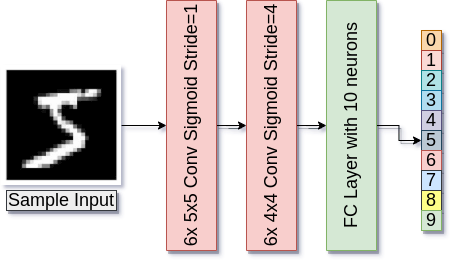
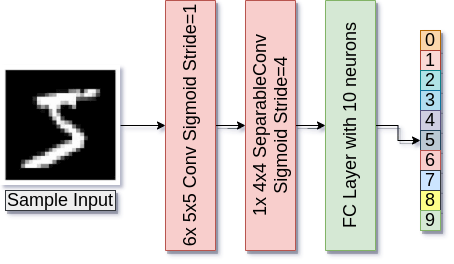
:zap: Update Readme with Model Overview

Changed region(s): [[0.37, 0.0, 0.9868, 0.9697], [0.0, 0.2424, 0.2775, 0.8182], [0.2467, 0.4545, 0.37, 0.4848]]

diff --git a/CuCNN/layer.h b/CuCNN/layer.h
@@ -42,21 +42,21 @@ __global__ void makeError(float *err, float *output, unsigned int Y, const int N
 __global__ void apply_grad(float *output, float *grad, const int N);
 
 // Forward propagation kernels
-__global__ void fp_preact_c1(float input[28][28], float preact[6][24][24], float weight[6][5][5]);
-__global__ void fp_bias_c1(float preact[6][24][24], float bias[6]);
-__global__ void fp_preact_s1(float input[6][24][24], float preact[6][6][6], float weight[1][4][4]);
-__global__ void fp_bias_s1(float preact[6][6][6], float bias[1]);
-__global__ void fp_preact_f(float input[6][6][6], float preact[10], float weight[10][6][6][6]);
-__global__ void fp_bias_f(float preact[10], float bias[10]);
+__global__ void fp_preact_Conv(float input[28][28], float preact[6][24][24], float weight[6][5][5]);
+__global__ void fp_bias_Conv(float preact[6][24][24], float bias[6]);
+__global__ void fp_preact_separableConv(float input[6][24][24], float preact[6][6][6], float weight[1][4][4]);
+__global__ void fp_bias_separableConv(float preact[6][6][6], float bias[1]);
+__global__ void fp_preact_FC(float input[6][6][6], float preact[10], float weight[10][6][6][6]);
+__global__ void fp_bias_FC(float preact[10], float bias[10]);
 
 // Back propagation kernels
-__global__ void bp_weight_f(float d_weight[10][6][6][6], float d_preact[10], float p_output[6][6][6]);
-__global__ void bp_bias_f(float bias[10], float d_preact[10]);
-__global__ void bp_output_s1(float d_output[6][6][6], float n_weight[10][6][6][6], float nd_preact[10]);
-__global__ void bp_preact_s1(float d_preact[6][6][6], float d_output[6][6][6], float preact[6][6][6]);
-__global__ void bp_weight_s1(float d_weight[1][4][4], float d_preact[6][6][6], float p_output[6][24][24]);
-__global__ void bp_bias_s1(float bias[1], float d_preact[6][6][6]);
-__global__ void bp_output_c1(float d_output[6][24][24], float n_weight[1][4][4], float nd_preact[6][6][6]);
-__global__ void bp_preact_c1(float d_preact[6][24][24], float d_output[6][24][24], float preact[6][24][24]);
-__global__ void bp_weight_c1(float d_weight[6][5][5], float d_preact[6][24][24], float p_output[28][28]);
-__global__ void bp_bias_c1(float bias[6], float d_preact[6][24][24]);
+__global__ void bp_weight_FC(float d_weight[10][6][6][6], float d_preact[10], float p_output[6][6][6]);
+__global__ void bp_bias_FC(float bias[10], float d_preact[10]);
+__global__ void bp_output_separableConv(float d_output[6][6][6], float n_weight[10][6][6][6], float nd_preact[10]);
+__global__ void bp_preact_separableConv(float d_preact[6][6][6], float d_output[6][6][6], float preact[6][6][6]);
+__global__ void bp_weight_separableConv(float d_weight[1][4][4], float d_preact[6][6][6], float p_output[6][24][24]);
+__global__ void bp_bias_separableConv(float bias[1], float d_preact[6][6][6]);
+__global__ void bp_output_Conv(float d_output[6][24][24], float n_weight[1][4][4], float nd_preact[6][6][6]);
+__global__ void bp_preact_Conv(float d_preact[6][24][24], float d_output[6][24][24], float preact[6][24][24]);
+__global__ void bp_weight_Conv(float d_weight[6][5][5], float d_preact[6][24][24], float p_output[28][28]);
+__global__ void bp_bias_Conv(float bias[6], float d_preact[6][24][24]);

diff --git a/CuCNN/README.md b/CuCNN/README.md
@@ -4,6 +4,20 @@ A simple 3-layer CNN architecture implemented using CUDA framework.
 
 <img src='images/cucnn.png' style="max-width:100%">
 
+The CNN consists of:
+
+- **Convolution Layer**: Applies a Convolution Operation with `6` **5x5** kernels with `stride=1` on the input image to output a map of `shape=24x24x6`.
+
+- **Separable Convolution Layer**: Applies a **shared** Separable Convolution Operation with a **4x4** kernel with `stride=4` on the output of the previous Conv layer to output a map of `shape=4x4x6`.
+
+- **Fully Connected Layer**: Flattens the output from the previous layer to a layer with `10 nodes` with each node's value representing the probability of a digit from **0-9**.
+
+## Implementation 
+
+- Used simple **float multi-dimensional arrays** to implement the `parameter structures` (weights and biases) and outputs for the CNN.
+
+- The best performing kernel sizes are: **GridSize = 64, BlockSize = 64**, i.e, `kernel <<<64,64>>>`
+
 ## Code Structure
 
 - `data/`: Contains the **testset** and **trainset** MNIST data.
